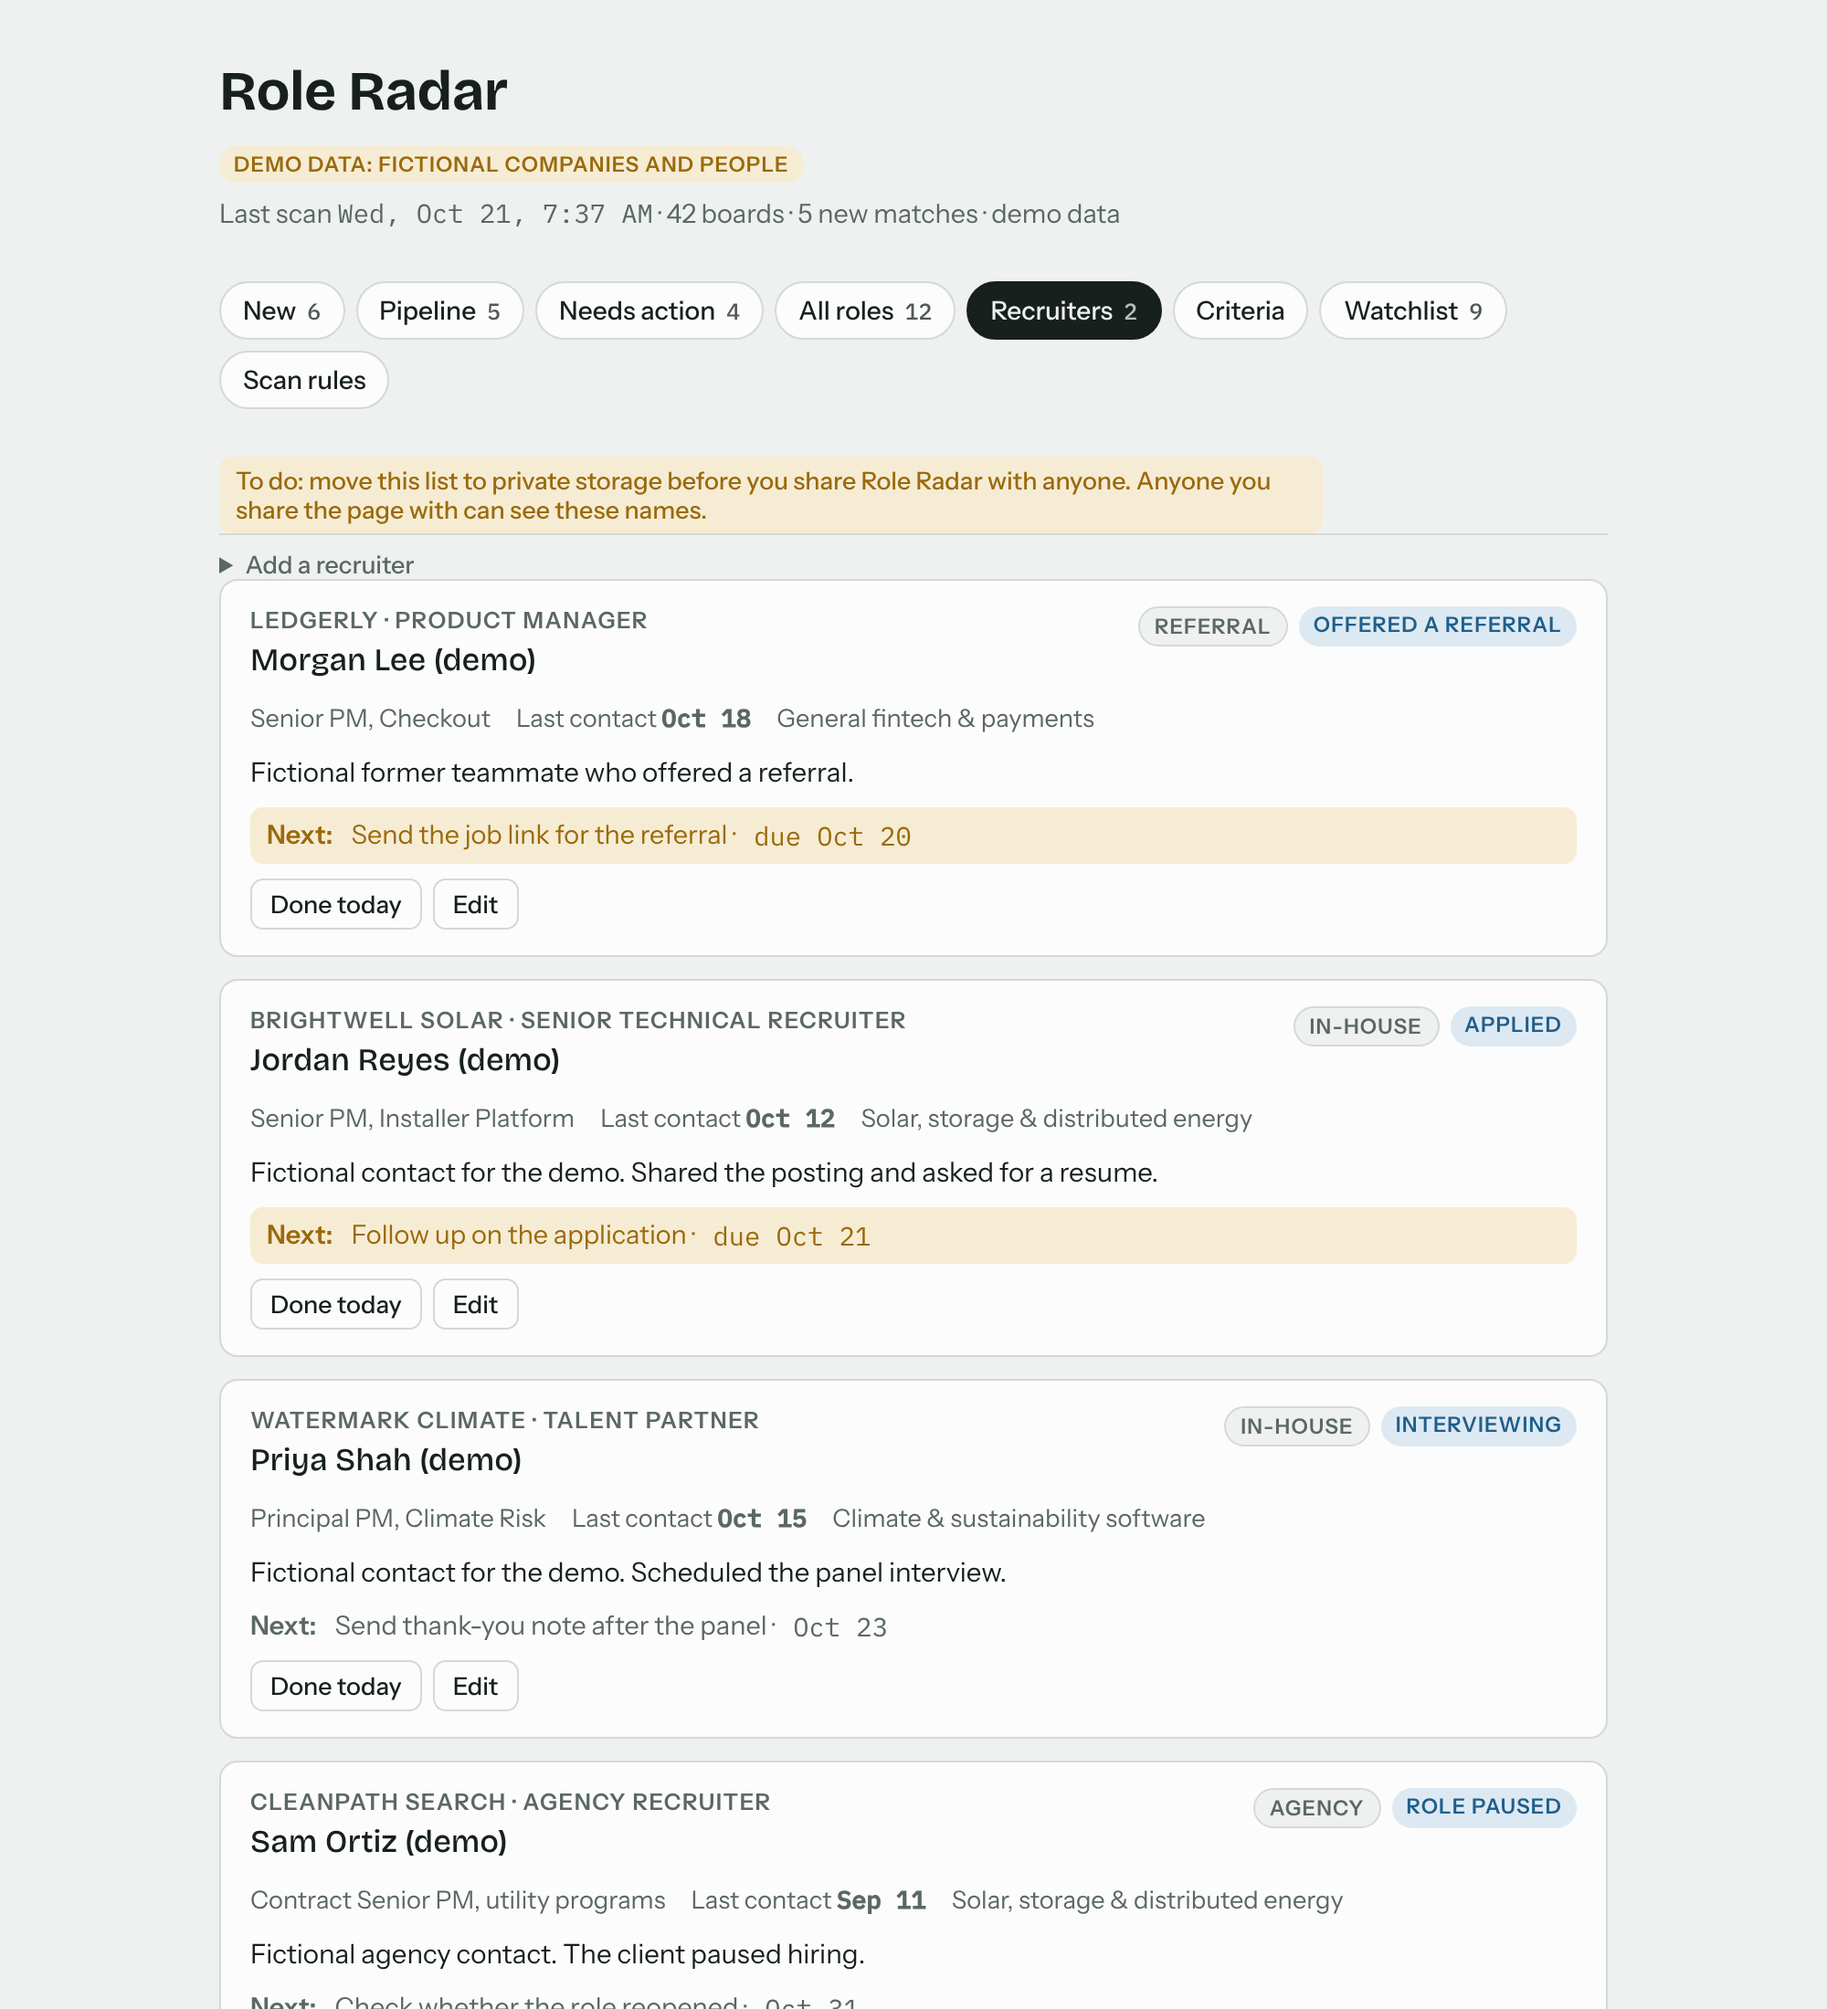
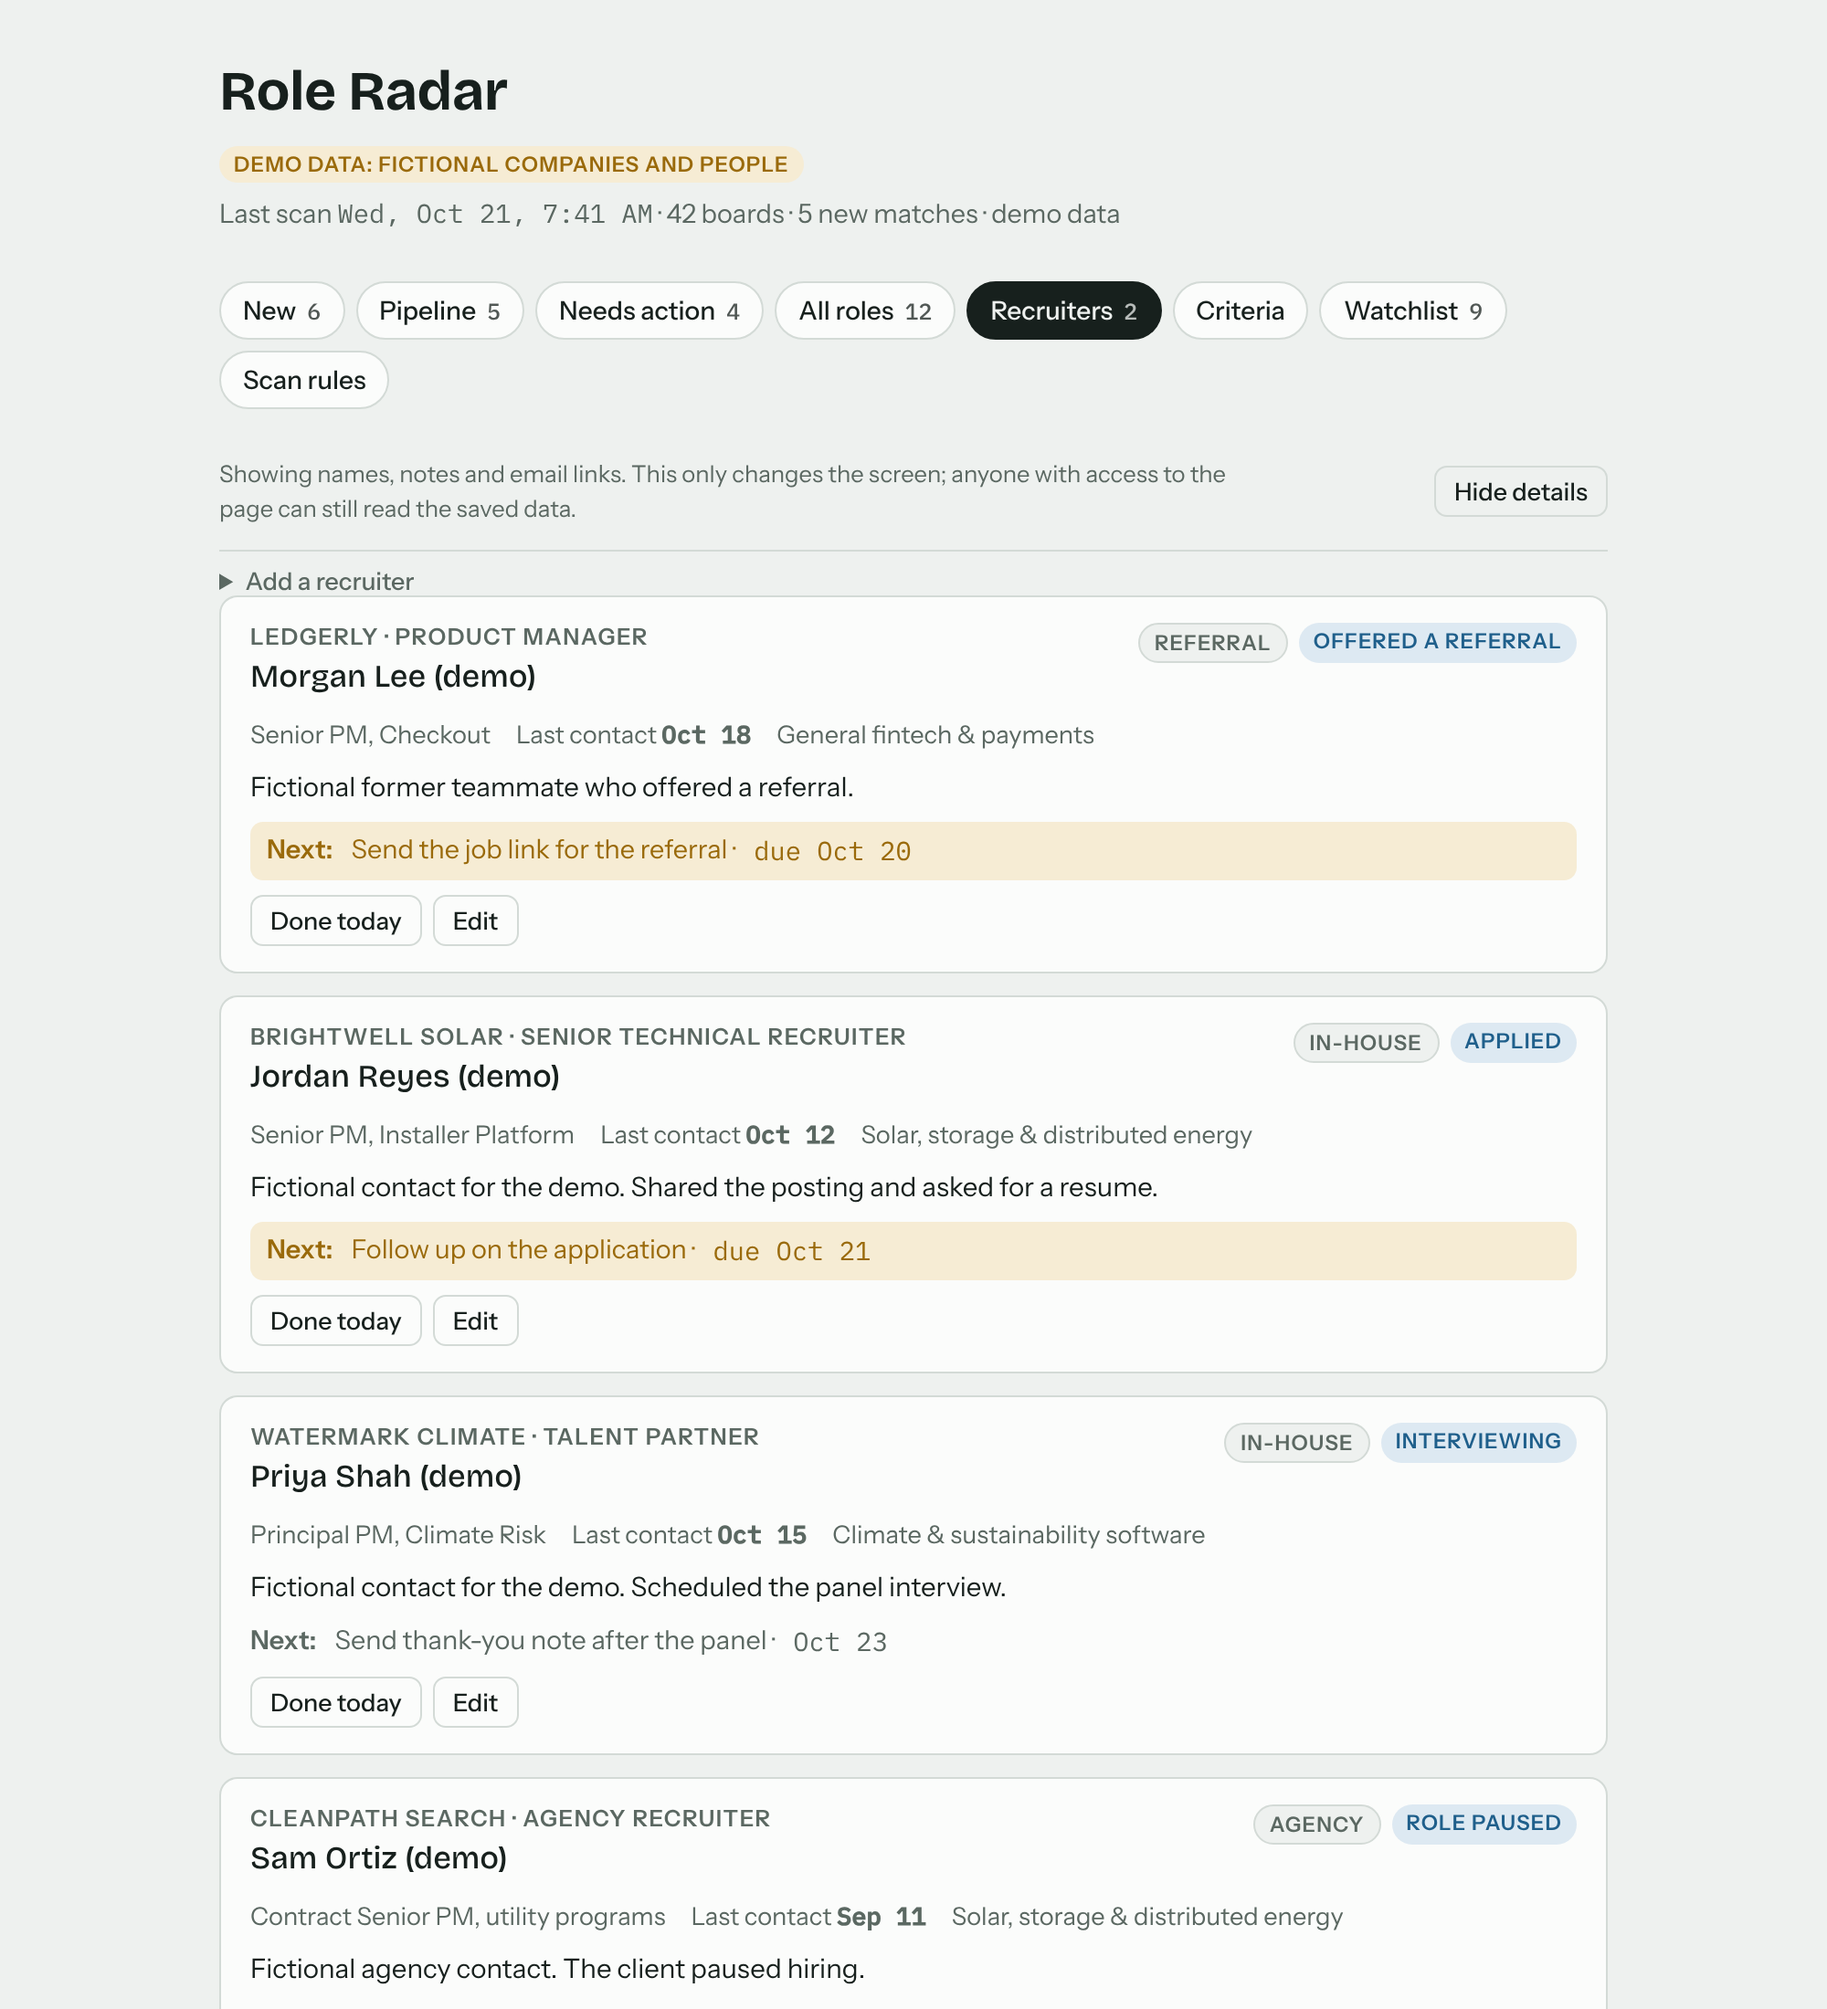
M4: hide recruiter details by default
- Recruiters tab shows initials and company only until "Show details"
- Choice remembered per viewer; falls back to hidden
- Browser test: no demo names or notes rendered while hidden
- README screenshot of the hidden view

Claude-Session: https://claude.ai/code/session_017S5qyvyq7Zhq42CmWRY2KS

Changed region(s): [[0.124, 0.2164, 0.868, 1.0], [0.651, 0.68, 0.868, 0.7418], [0.713, 0.4945, 0.868, 0.5564]]

diff --git a/app/role-radar.html b/app/role-radar.html
@@ -125,6 +125,7 @@ details.more form{display:grid;gap:10px;padding-top:10px}
 .dig{display:grid;gap:6px;margin:0;padding:0;list-style:none}
 .dig li{display:grid;grid-template-columns:auto minmax(0,1fr);gap:2px 10px;align-items:baseline}
 .dig .sub2{grid-column:2;color:var(--muted);font-size:.8rem}
+.privbar{display:flex;gap:12px;align-items:center;justify-content:space-between;flex-wrap:wrap;margin:0 0 12px}.privbar .hint{margin:0;max-width:65ch}
 .cnote{font:500 .84rem var(--f-body);color:var(--warn);background:var(--warn-soft);border-radius:7px;padding:5px 9px;margin:0;max-width:65ch}
 </style>
 
@@ -168,6 +169,10 @@ function setConfig(c){config={...DEF_CONFIG,...(c||{})}; LANES=config.lanes; SKI
 const ATS=["greenhouse","ashby","lever"];
 const DEF_VIEW={q:"",status:"",lane:"",fit:"",source:"",tag:"",found:"",conflict:"",sort:"fit"};
 let recruiters=[], editRec=null;
+// Privacy: recruiter details are hidden on screen until this viewer chooses to show them.
+let recPrivate=true;
+try{recPrivate=localStorage.getItem("rr-rec-private")!=="0";}catch(_){}
+const initials=n=>String(n||"").replace(/\([^)]*\)/g,"").trim().split(/\s+/).filter(Boolean).map(w=>w[0].toUpperCase()+".").join(" ")||"—";
 let criteria=null, critDraft=null, critErr="", specData=null;
 const SC=window.RoleRadarScoring||null;
 let tab="inbox", jobs=[], companies=[], filters=null, scan=null, db=null, view={...DEF_VIEW}, openMore=new Set(), skipOpen=null;
@@ -450,7 +455,12 @@ comp    = +10 if the range reaches ${money(c.stretch_target_usd)}</p></div>`;
 function recCard(r){
   const id=esc(r._id), due=r.nextStepDue, late=due&&due<=today();
   const hasNext=r.nextStep&&!/^none\b/i.test(r.nextStep);
-  const edit=editRec===r._id;
+  const edit=!recPrivate&&editRec===r._id;
+  if(recPrivate) return `<article class="job rec">
+    <div class="top"><div style="min-width:0"><div class="co">${esc(r.company)}</div><div class="who">${esc(initials(r.name))}</div></div>
+      <div class="actions">${r.type?`<span class="chip lane">${esc(r.type)}</span>`:""}</div></div>
+    ${hasNext||due?`<div class="next" style="${late?"color:var(--warn);background:var(--warn-soft);border-radius:7px;padding:5px 9px":"color:var(--muted)"}"><b>Next step</b>${due?` · <span class="mono">${late?"due ":""}${fmtDate(due)}</span>`:""}</div>`:""}
+  </article>`;
   return `<article class="job rec">
     <div class="top"><div style="min-width:0"><div class="co">${esc(r.company)}${r.title?` · ${esc(r.title)}`:""}</div><div class="who">${esc(r.name)}</div></div>
       <div class="actions">${r.type?`<span class="chip lane">${esc(r.type)}</span>`:""}${r.outcome?`<span class="chip st">${esc(r.outcome)}</span>`:""}</div></div>
@@ -481,8 +491,8 @@ function renderPeople(){
       <label for="ar-r">Role discussed<input id="ar-r"></label>
       <label for="ar-d">Next step due<input id="ar-d" type="date"></label>
     </div><label for="ar-x">Next step<input id="ar-x"></label><button class="primary" type="submit">Add recruiter</button></form></details>`;
-  const note=`<p class="cnote">To do: move this list to private storage before you share Role Radar with anyone. Anyone you share the page with can see these names.</p>`;
-  return note+add+(list.length?`<div class="list">${list.map(recCard).join("")}</div>`:`<div class="empty"><strong>No recruiters yet</strong><span>Add one above.</span></div>`);
+  const note=`<div class="privbar"><p class="hint">${recPrivate?"Details hidden: initials and company only.":"Showing names, notes and email links."} This only changes the screen; anyone with access to the page can still read the saved data.</p><button class="btn" type="button" id="recPrivacy" aria-pressed="${recPrivate}">${recPrivate?"Show details":"Hide details"}</button></div>`;
+  return note+(recPrivate?"":add)+(list.length?`<div class="list">${list.map(recCard).join("")}</div>`:`<div class="empty"><strong>No recruiters yet</strong><span>Add one above.</span></div>`);
 }
 function renderCriteria(){
   const text=critDraft??(criteria&&criteria.spec)??"";
@@ -571,6 +581,7 @@ document.addEventListener("click",async e=>{
   if(e.target.id==="applyClose"){ const d=$("#applyDlg"); try{d.close();}catch(_){d.removeAttribute("open");} return; }
   const rd=e.target.closest("[data-recdone]");
   if(rd&&db){ try{await db.doc("recruiters/"+rd.dataset.recdone).update({lastContact:today(),nextStep:"",nextStepDue:""}); toast("Marked done");}catch(_){toast("Couldn't save that.");} return; }
+  if(e.target.id==="recPrivacy"){ recPrivate=!recPrivate; editRec=null; try{localStorage.setItem("rr-rec-private",recPrivate?"1":"0")}catch(_){} render(); return; }
   const re=e.target.closest("[data-recedit]");
   if(re){ editRec=editRec===re.dataset.recedit?null:re.dataset.recedit; render(); return; }
   if(e.target.id==="critReset"){ critDraft=null; critErr=""; render(); return; }

diff --git a/HANDOFF.md b/HANDOFF.md
@@ -15,13 +15,17 @@ Updated: 2026-10-21 (overnight run)
   - README.md rewritten as a case study: problem, flow diagram (mermaid), how it works, criteria-preview screenshot, what it saves, product decisions, how to run the demo, layout, what's next.
   - `npm run screenshots` captures six PNGs from demo data into `docs/screenshots/` (1200px light, 390px phone, one dark). Shared browser setup lives in `scripts/browser.mjs` and is reused by the UI tests; fonts come from `@fontsource` packages so shots match the live page offline.
   - Bug fixed with a test: the search box overflowed the filter bar (missing `box-sizing`). Applied to the live page too.
-- 36 tests passing.
+- M4 on `m4-privacy-toggle` (stacked on M3):
+  - Recruiters tab hides names, notes, next-step text, email links and editing by default; cards show initials, company, type and the due date. "Show details" reveals them, and the choice is remembered per viewer in localStorage (try/catch, so it falls back to hidden).
+  - Browser test: no demo recruiter name or note appears in the rendered page while hidden; they appear after "Show details" and the choice survives a reload.
+  - New screenshot `recruiters-hidden.png` in the README. Applied to the live private page.
+- 37 tests passing.
 
 ## In progress
-- Nothing. M3 is ready for review.
+- Nothing. M4 is ready for review.
 
 ## Exact next step
-- Start M4 on `m4-privacy-toggle`, branched from `m3-case-study`: add a "Hide recruiter details" switch on the Recruiters tab that shows initials plus company only and hides notes and email links; store the choice per viewer in localStorage (wrapped in try/catch); default to hidden when the page is not the owner's (demo flag or `?share=1`). Add a browser test that no full recruiter name appears in the page text when hidden.
+- Start Hardening on `hardening`, branched from `m4-privacy-toggle`: collapse the filter bar behind a "Filters" button below 600px wide; handle empty collections, missing or broken criteria and past or future due dates, each with a browser test; write `docs/SETUP.md` (run your own copy).
 
 ## How to work here
 - `npm install`, then `npm test`, `npm run build:demo` (open `dist/demo.html`).
@@ -31,6 +35,7 @@ Updated: 2026-10-21 (overnight run)
 - The live page is `app/role-radar.html` published with `src/scoring.js` as a supporting file named `scoring.js`.
 
 ## Decisions to review
+- The privacy toggle hides details on screen only. Anyone the page is shared with can still read the recruiter records through the page's database, so the real fix before sharing is moving recruiters to separate private storage. Hidden is the default for every viewer, including the owner (one click to show, remembered).
 - The README is written in the first person as Chase's case study and names him as the builder; it holds no contact details.
 - Screenshots are committed (about 2 MB) so the README renders on GitHub without a build.
 - The repo keeps a demo persona's `criteria.yaml` (fictional comp floors, home state and example companies), not the real one.

diff --git a/README.md b/README.md
@@ -62,7 +62,9 @@ The Criteria tab previews tomorrow's digest while you edit. In the screenshot be
 - **Read-only by default.** The scan never applies, never sends email and never contacts anyone. Gmail access is read-only, and every status it changes can be changed back from the page.
 - **Flags, not filters, for gray areas.** Culture red flags and overlaps with my own side projects lower a score or add a flag. They never hide a role.
 - **Built for reuse.** Per-person settings (lanes, follow-up timing, intake prompt) live in config, the scan prompt is a template, and the demo runs on fictional data, so someone else can run their own copy.
-- **Privacy first.** This repo is public, so it holds only demo data. A pre-commit check blocks emails, phone numbers, private links and a private list of names. Recruiter details stay in the private app.
+- **Privacy first.** This repo is public, so it holds only demo data. A pre-commit check blocks emails, phone numbers, private links and a private list of names. In the app, recruiter names, notes and email links are hidden by default (initials and company only) until the viewer chooses to show them, and the page remembers that choice.
+
+![Recruiters with details hidden: initials and company only](docs/screenshots/recruiters-hidden.png)
 
 ## Run the demo
 

diff --git a/PLAN.md b/PLAN.md
@@ -20,7 +20,7 @@ Ground rules: the repo is public, so it only ever holds demo data (see CLAUDE.md
 - [x] **M3: Case study** (`m3-case-study`)
   - README reads as a short case study: the problem, how it works (diagram), what it saves, what I would do next.
   - Screenshots of the main tabs, captured by script from demo data only (`npm run screenshots`).
-- [ ] **M4: Privacy toggle** (`m4-privacy-toggle`)
+- [x] **M4: Privacy toggle** (`m4-privacy-toggle`)
   - One switch hides recruiter names and notes (initials plus company only) and remembers the choice per viewer; on by default on any shared view.
   - Browser test proves names are absent from the page when hidden.
   - Applied to the live private artifact.
